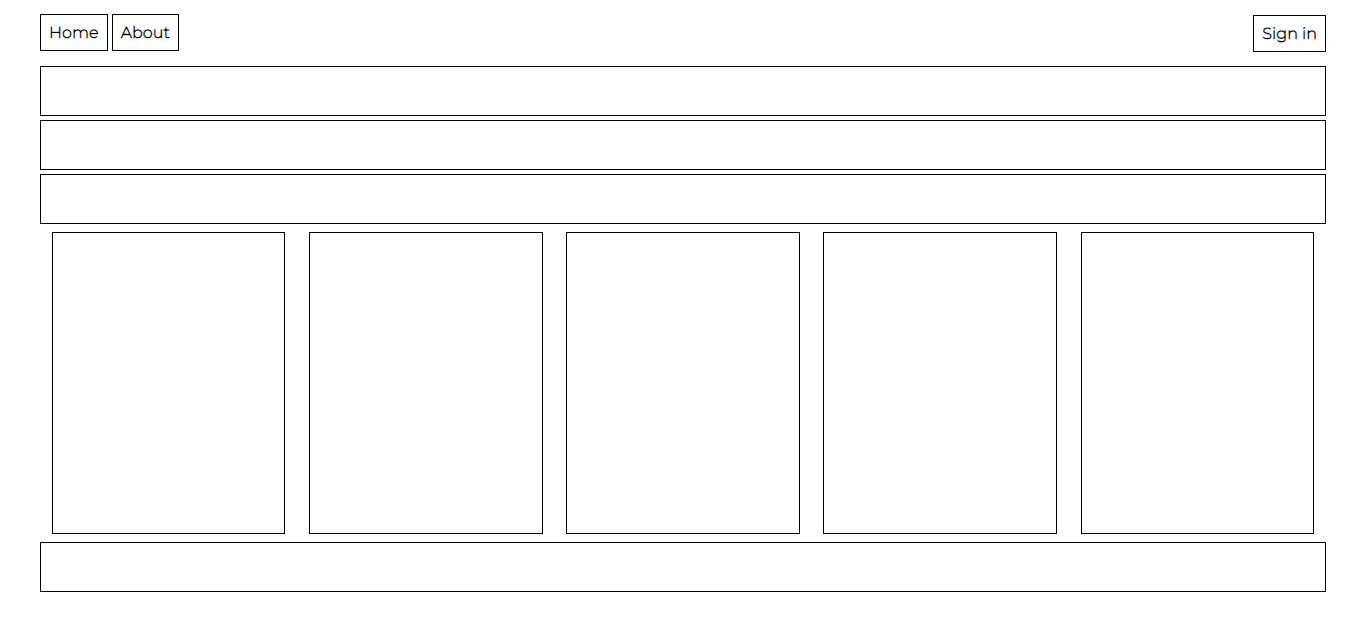
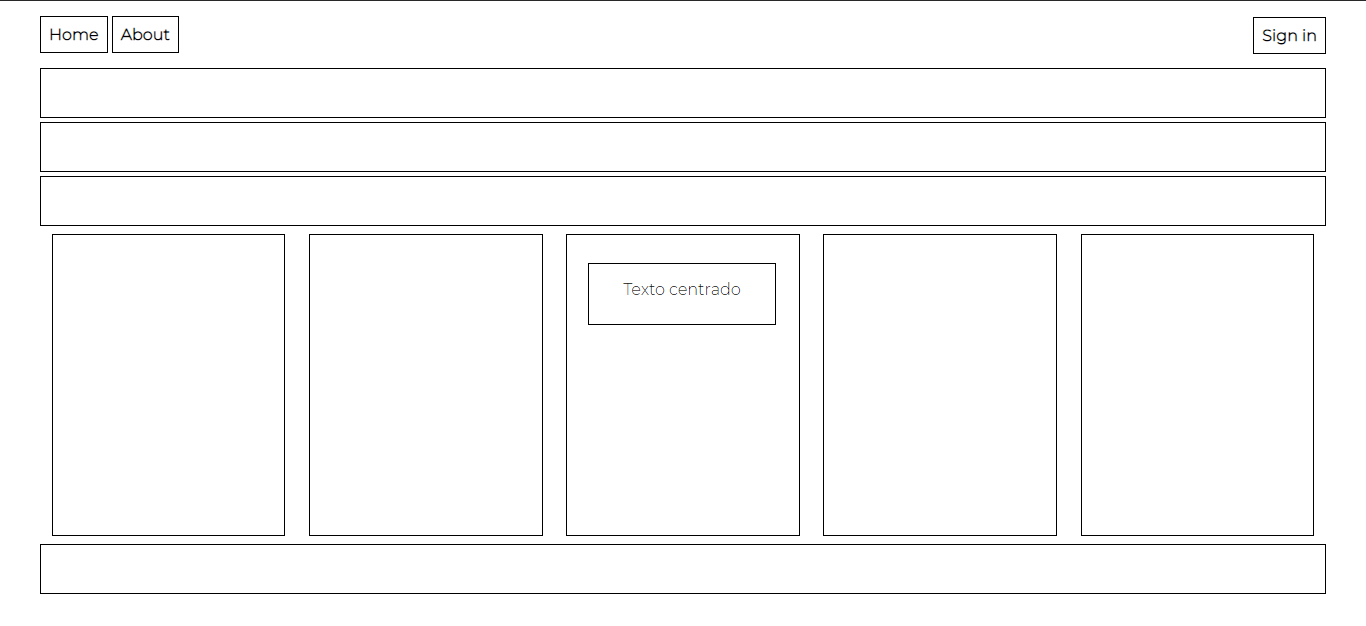
Práctica de position:relative y absolute

diff --git a/index.html b/index.html
@@ -25,7 +25,11 @@
     <article>
         <div id="verticalbox"></div>
         <div id="verticalbox"></div>
-        <div id="verticalbox"></div>
+        <div id="verticalbox">
+            <div id="divcenter">
+                <p> Texto centrado</p>
+            </div>
+        </div>
         <div id="verticalbox"></div>
         <div id="verticalbox"></div>
     </article>

diff --git a/box.css b/box.css
@@ -12,9 +12,23 @@ article{
 }
 
 #verticalbox{
+    position: relative;
     border: 1px solid #000;
     margin:  0.25em 0em 0.25em 0em;
     height: 300px;
     width: 90%;
+}
+
+#divcenter{
+    position: absolute;
+    border: 1px solid #000;
+    width: 80%;
+    height: 20%;
+    right: 10%;
+    bottom: 70%;
+}
+
+div#divcenter p{
+    text-align: center;
 }
 
